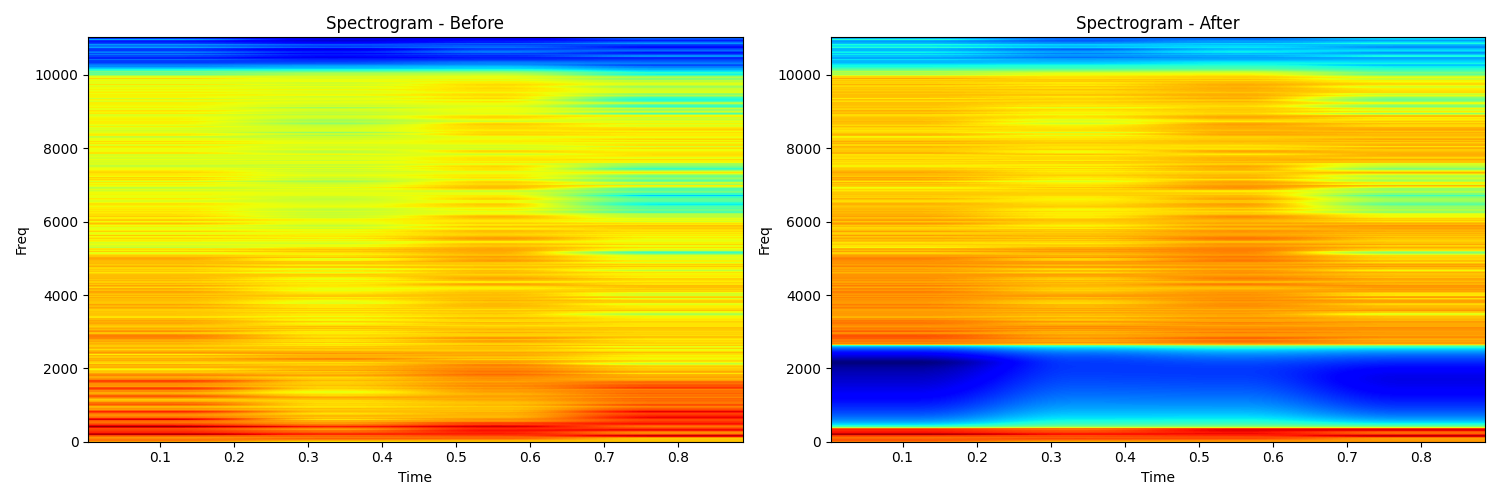
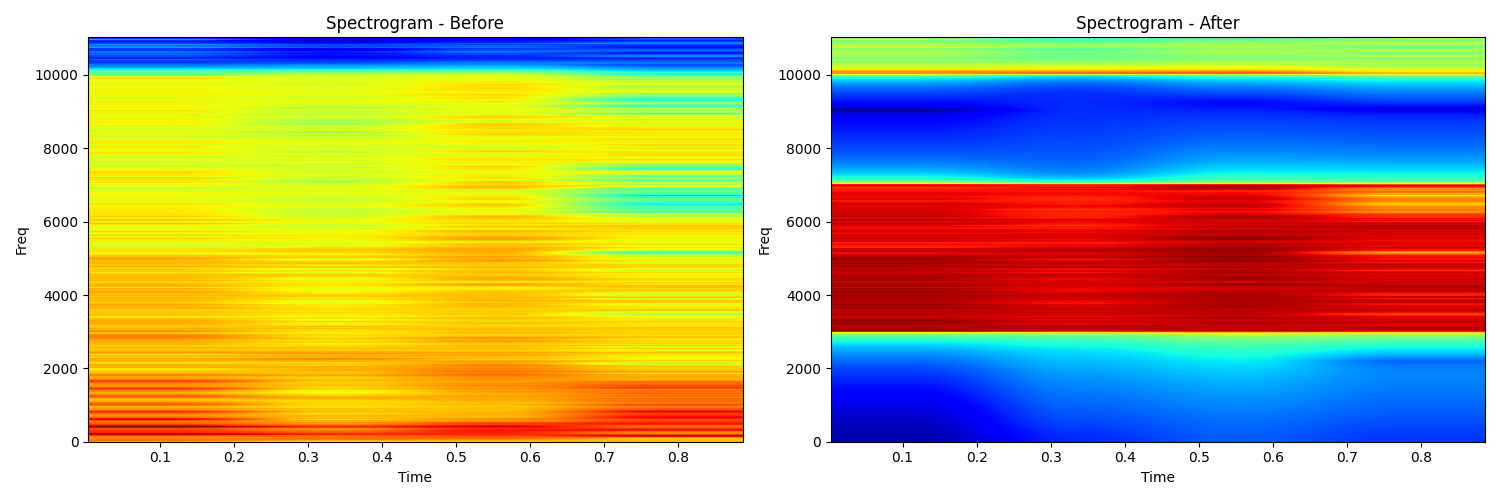
add mode 4

diff --git a/logic.py b/logic.py
@@ -1,11 +1,12 @@
 import numpy as np
 import matplotlib.pyplot as plt
 from scipy.io import loadmat
+import librosa
 class logic():
     list_of_music = [[2,1000],[1000,2500],[2500,9000]]
     list_of_vowels = [[330,3300],[370,2650],[4000,5000],[0,100]]
     list_of_modes = [list_of_music,list_of_vowels]
-    def  mode_1_ranges(sample_rate):
+    def  first_mode_ranges(sample_rate):
         fMax = sample_rate//2
         list_of_range = np.arange(0,fMax,fMax/11)
         list_of_lists =[]
@@ -16,9 +17,9 @@ class logic():
     def final_func(fou_of_signal,frequencies,samplingfreq,list_of_sliders,mode):
         final_fou = fou_of_signal
         if mode == 0:
-            list_of_freqs = logic.mode_1_ranges(samplingfreq)
+            list_of_freqs = logic.first_mode_ranges(samplingfreq)
         else:
-            list_of_freqs = logic.list_of_modes[int(mode)-1]
+            list_of_freqs = logic.list_of_modes[mode-1]
         for iter in range(len(list_of_sliders)):
             freqs_update = logic.select_range(frequencies,list_of_freqs[iter][0],list_of_freqs[iter][1],True)
             final_fou = logic.modify_magnitude(freqs_update,fou_of_signal,list_of_sliders[iter])
@@ -40,8 +41,6 @@ class logic():
         else:
             selected_freqs = (frequncies>min)&(frequncies<max)
         return selected_freqs
-    def spectrogram(signal,sampling_frequency):
-        fig = plt.specgram(signal,NFFT=5000, Fs = sampling_frequency, cmap="jet")
-        plt.title('Spectrogram')
-        plt.xlabel("Time")
-        plt.ylabel("Freq")
+    def voice_change(signal,sampling_frequency,shift_factor):
+        changed_voice = librosa.effects.pitch_shift(signal, sr=sampling_frequency, n_steps=shift_factor)
+        return changed_voice

diff --git a/app.py b/app.py
@@ -40,6 +40,7 @@ def get_sliders_values():
         my_list = array.split(",")
         slider_list = [float(i) for i in my_list]
         mode = slider_list[-1]
+        mode = int(mode)
         slider_list = slider_list[:len(slider_list)-1]
         f_signal,freqs = logic.fourier(signal,sr)
         fig ,(ax1,ax2) = plt.subplots(1,2)
@@ -50,8 +51,11 @@ def get_sliders_values():
         ax1.set_title('Spectrogram - Before')
         ax1.set_xlabel("Time")
         ax1.set_ylabel("Freq")
-        re_fou = logic.final_func(f_signal,freqs,sr,slider_list,mode)
-        re_con = np.fft.irfft(re_fou)
+        if mode == 4:
+            re_con = logic.voice_change(signal,sr,slider_list)
+        else:
+            re_fou = logic.final_func(f_signal,freqs,sr,slider_list,mode)
+            re_con = np.fft.irfft(re_fou)
         ax2.specgram(re_con,NFFT=5000, Fs = sr, cmap="jet")
         ax2.set_title('Spectrogram - After')
         ax2.set_xlabel("Time")
